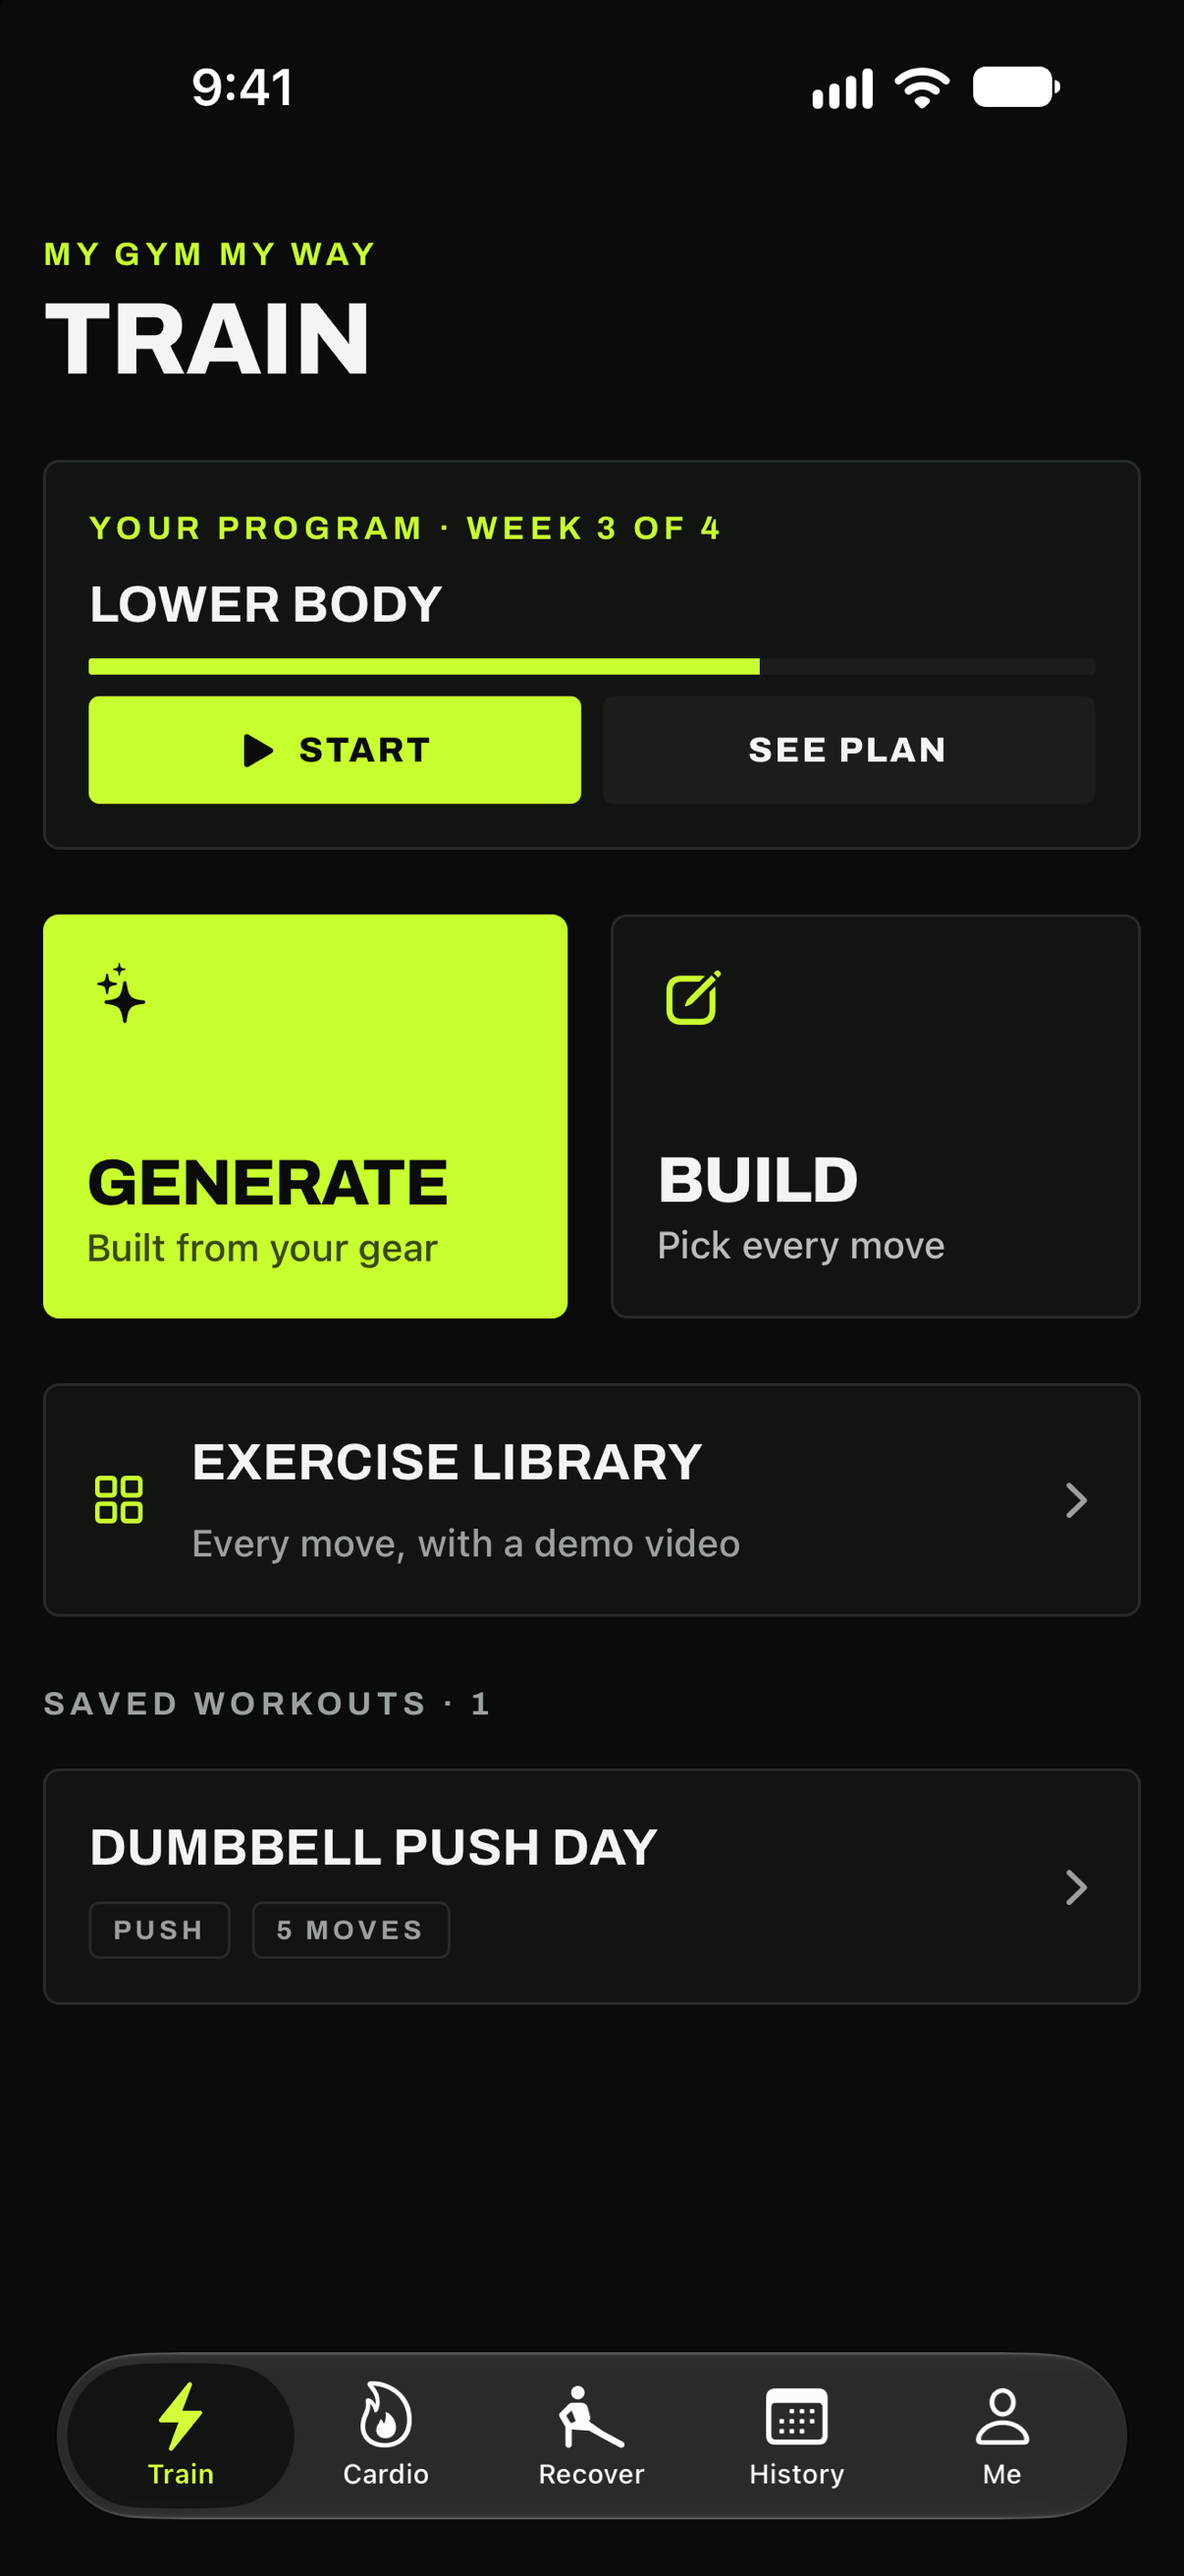
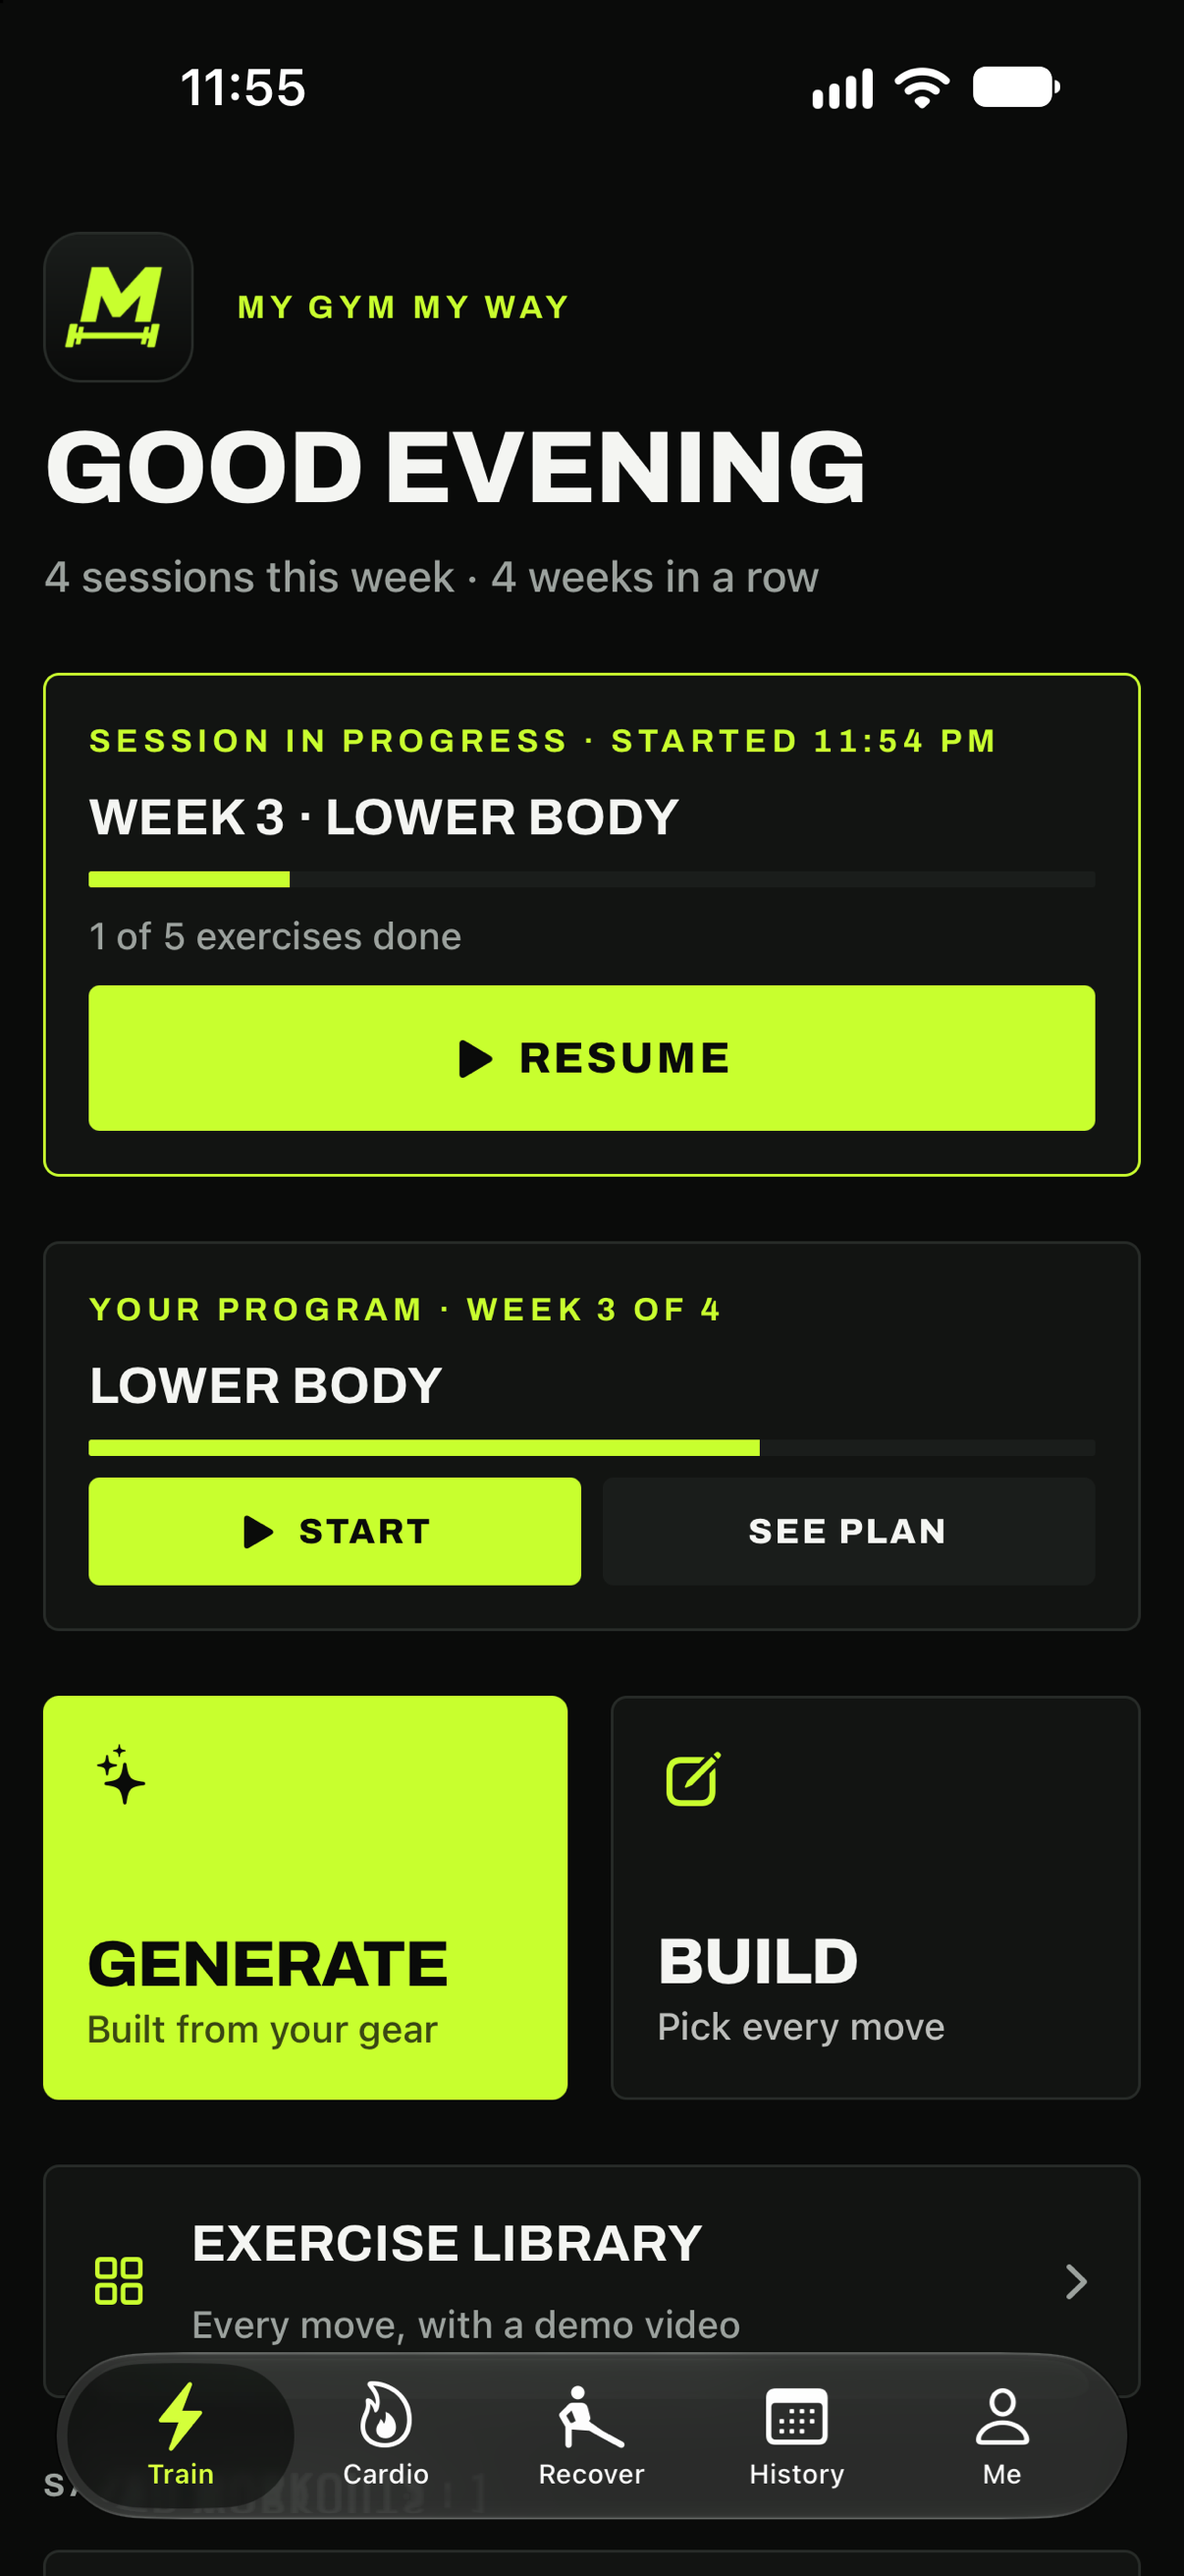
Retake the Train and set logging App Store screenshots
Show the new icon hero and the start time in place of the old workout
timer.

diff --git a/store/README.md b/store/README.md
@@ -218,8 +218,8 @@ Apple asks for a recording on a physical iPhone running the latest iOS, starting
 
 The App Store set is in [`screenshots/app-store/`](screenshots/app-store/): eight 6.9-inch shots, 1320 × 2868, from a Release build on the iPhone 18 Pro Max simulator, with sample data from a realistic month of training. Upload them in this order, since the first three show in search results:
 
-1. `01-train.png`: Train tab with the 4-week program card
-2. `02-log-sets.png`: logging sets with weights, last time's numbers and the next-step suggestion
+1. `01-train.png`: Train tab with the icon hero, the workout in progress and the 4-week program
+2. `02-log-sets.png`: logging sets with weights, the start time, last time's numbers and the next-step suggestion
 3. `03-progress.png`: an exercise with its demo, form cues and progress chart
 4. `04-program.png`: the 4-week program, 8 of 12 workouts done
 5. `05-history.png`: History with the streak calendar
